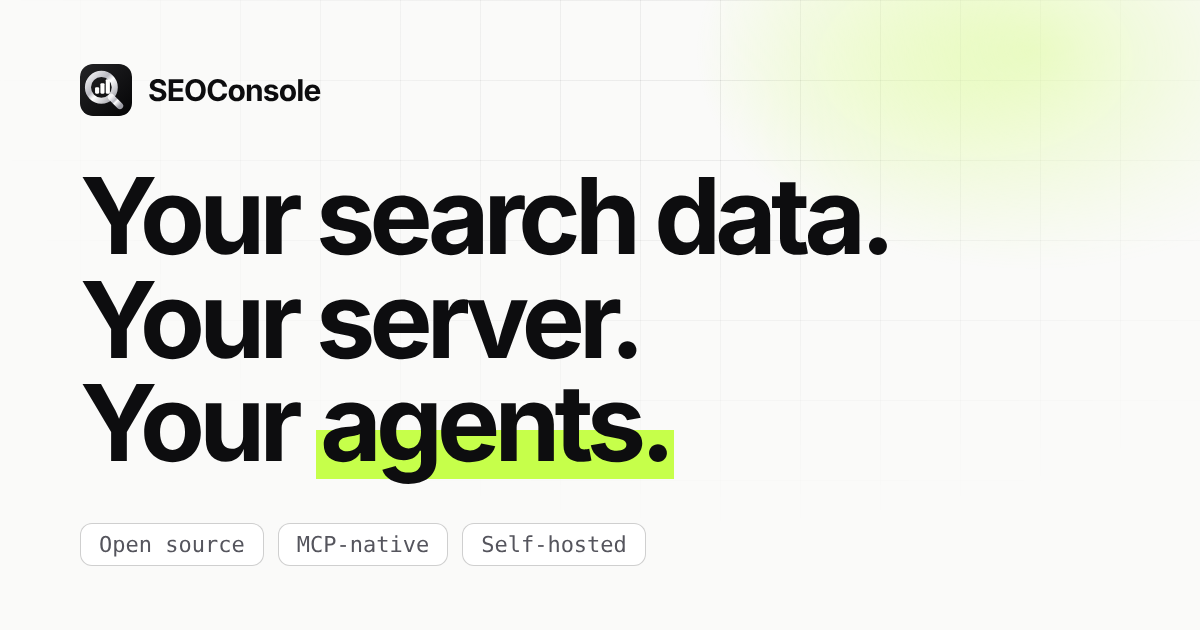
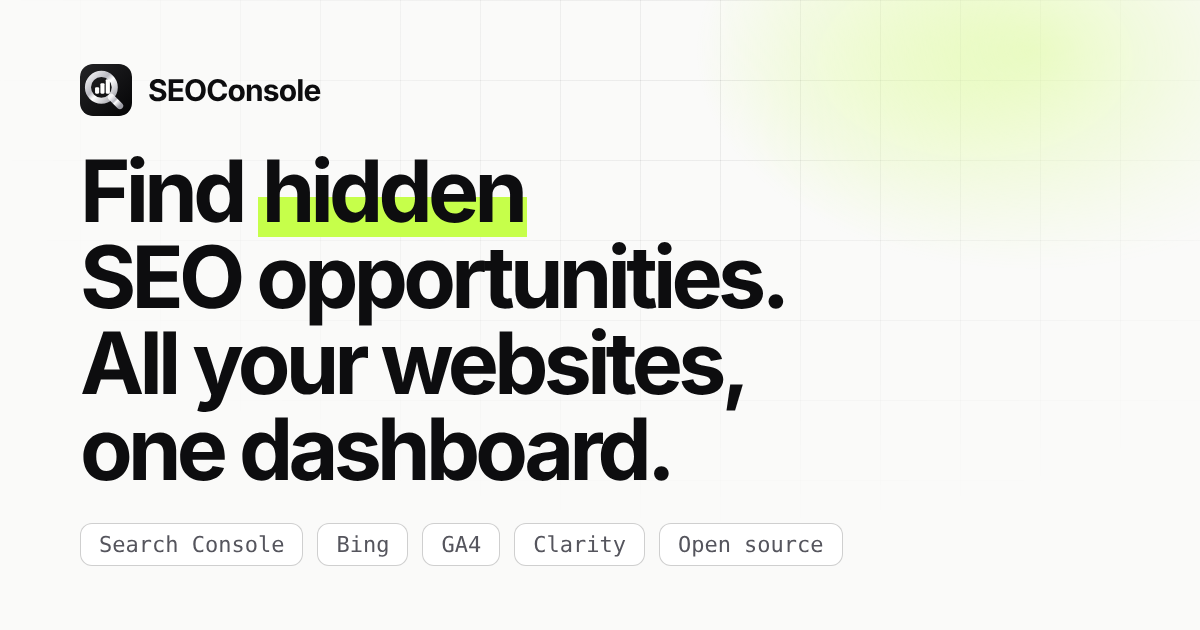
Catchier site title: find hidden SEO opportunities, all your websites in one dashboard
Title, description, Open Graph and Twitter tags, JSON-LD, hero lead and the share
image now carry the message. No instant-ranking claims (tests reject them).

Claude-Session: https://claude.ai/code/session_01AzT4RChXpoW6jaQKn5nRRc

Changed region(s): [[0.0617, 0.2413, 0.74, 0.7841], [0.0617, 0.8444, 0.5242, 0.9048], [0.555, 0.8444, 0.6783, 0.8746]]

diff --git a/site/index.html b/site/index.html
@@ -3,19 +3,21 @@
 <head>
 <meta charset="utf-8">
 <meta name="viewport" content="width=device-width, initial-scale=1">
-<title>SEOConsole: your search data, your server, your agents</title>
-<meta name="description" content="Open-source SEO dashboard that syncs Search Console, GA4, Bing and Clarity into a file you own, ranks what to fix first, and lets any AI agent read it over MCP.">
+<title>Find Hidden SEO Opportunities in One Dashboard | SEOConsole</title>
+<meta name="description" content="Find hidden SEO opportunities in Search Console, Bing, GA4 and Clarity, see what to fix first, and manage all your websites in one free, open-source dashboard.">
 <meta name="theme-color" content="#fafaf9">
 <meta name="color-scheme" content="light">
 <link rel="canonical" href="https://seoconsole.app/">
 <meta property="og:type" content="website">
 <meta property="og:site_name" content="SEOConsole">
-<meta property="og:title" content="SEOConsole: your search data, your server, your agents">
-<meta property="og:description" content="Open-source SEO dashboard with an MCP server that reads by default. Self-host it, point an agent at it.">
+<meta property="og:title" content="Find hidden SEO opportunities. Manage all your websites in one dashboard.">
+<meta property="og:description" content="Find hidden SEO opportunities in Search Console, Bing, GA4 and Clarity, see what to fix first, and manage all your websites in one free, open-source dashboard.">
 <meta property="og:url" content="https://seoconsole.app/">
 <meta property="og:image" content="https://seoconsole.app/assets/og.png">
 <meta property="og:image:width" content="1200"><meta property="og:image:height" content="630">
 <meta name="twitter:card" content="summary_large_image">
+<meta name="twitter:title" content="Find hidden SEO opportunities. Manage all your websites in one dashboard.">
+<meta name="twitter:description" content="Find hidden SEO opportunities in Search Console, Bing, GA4 and Clarity, see what to fix first, and manage all your websites in one free, open-source dashboard.">
 <link rel="icon" href="/favicon.svg" type="image/svg+xml">
 <link rel="icon" href="/favicon-32.png" sizes="32x32" type="image/png">
 <link rel="alternate icon" href="/favicon.ico" sizes="48x48">
@@ -24,7 +26,7 @@
 <link rel="stylesheet" href="/assets/styles.css">
 <script src="/assets/boot.js"></script>
 <script type="application/ld+json">
-{"@context":"https://schema.org","@type":"SoftwareApplication","name":"SEOConsole","applicationCategory":"BusinessApplication","operatingSystem":"Linux, macOS, Docker","description":"Self-hosted SEO dashboard for Google Search Console, GA4, Bing and Clarity with an MCP server for AI agents that reads by default.","license":"https://www.gnu.org/licenses/agpl-3.0.html","url":"https://seoconsole.app/","codeRepository":"https://github.com/Ubaidofficial/OpenSiteConsole","offers":{"@type":"Offer","price":"0","priceCurrency":"USD"}}
+{"@context":"https://schema.org","@type":"SoftwareApplication","name":"SEOConsole","applicationCategory":"BusinessApplication","operatingSystem":"Linux, macOS, Docker","description":"Open-source SEO dashboard that finds hidden SEO opportunities across Google Search Console, GA4, Bing and Clarity, and manages all your websites in one place. Includes an MCP server for AI agents that reads by default.","license":"https://www.gnu.org/licenses/agpl-3.0.html","url":"https://seoconsole.app/","codeRepository":"https://github.com/Ubaidofficial/OpenSiteConsole","offers":{"@type":"Offer","price":"0","priceCurrency":"USD"}}
 </script>
 <script type="application/ld+json">
 {"@context":"https://schema.org","@type":"FAQPage","mainEntity":[
@@ -65,7 +67,7 @@
       <span class="ln l2"><span class="w">Your server.</span></span>
       <span class="ln l3"><span class="w">Your <span class="hl">agents.</span></span></span>
     </h1>
-    <p class="lead rv">SEOConsole syncs Search Console, GA4, Bing and Clarity into a SQLite file you own, ranks what to fix first, and lets any AI agent read it over MCP.</p>
+    <p class="lead rv">Find hidden SEO opportunities across all your websites in one dashboard. SEOConsole syncs Search Console, GA4, Bing and Clarity into a SQLite file you own, ranks what to fix first, and lets any AI agent read it over MCP.</p>
     <div class="cta rv">
       <a class="btn primary" href="#self-host">Self-host it, free<span class="arr" aria-hidden="true">→</span></a>
       <a class="btn ghost" href="#agents">Watch an agent use it</a>

diff --git a/tests/site.test.ts b/tests/site.test.ts
@@ -132,6 +132,37 @@ describe('site: honest and in step with the app', () => {
 	});
 });
 
+describe('site: the titles and descriptions that search results and link previews show', () => {
+	const tag = (re: RegExp) => re.exec(html)?.[1] ?? '';
+	const title = tag(/<title>([^<]+)<\/title>/);
+	const desc = tag(/<meta name="description" content="([^"]+)">/);
+	const ogTitle = tag(/<meta property="og:title" content="([^"]+)">/);
+	it('the page title is catchy, names both ideas, carries the brand and fits in a search result', () => {
+		expect(title).toBe('Find Hidden SEO Opportunities in One Dashboard | SEOConsole');
+		expect(title.length).toBeLessThanOrEqual(60);
+		expect(title).toMatch(/hidden SEO opportunities/i);
+		expect(title).toMatch(/one dashboard/i);
+		expect(title).toMatch(/SEOConsole$/);
+	});
+	it('the description fits in a search result and says what the tool finds, from where, and for how many sites', () => {
+		expect(desc.length).toBeGreaterThanOrEqual(120);
+		expect(desc.length).toBeLessThanOrEqual(160);
+		for (const w of ['hidden SEO opportunities', 'Search Console', 'Bing', 'GA4', 'Clarity', 'all your websites', 'open-source']) expect(desc, w).toContain(w);
+	});
+	it('link previews (Open Graph and Twitter) use the same message, and the structured data describes the same thing', () => {
+		expect(ogTitle).toBe('Find hidden SEO opportunities. Manage all your websites in one dashboard.');
+		expect(tag(/<meta name="twitter:title" content="([^"]+)">/)).toBe(ogTitle);
+		expect(tag(/<meta property="og:description" content="([^"]+)">/)).toBe(desc);
+		expect(tag(/<meta name="twitter:description" content="([^"]+)">/)).toBe(desc);
+		const ld = JSON.parse(/<script type="application\/ld\+json">([\s\S]*?)<\/script>/.exec(html)![1]);
+		expect(ld.description).toMatch(/hidden SEO opportunities/);
+		expect(html).toContain('<p class="lead rv">Find hidden SEO opportunities across all your websites in one dashboard.'); // the page says what its title promises
+	});
+	it('promises nothing the tool cannot keep: no instant or guaranteed rankings in any title, description or preview', () => {
+		for (const text of [title, desc, ogTitle, html.slice(0, html.indexOf('</head>'))]) expect(text).not.toMatch(/instant|guarantee|overnight|same day|#1\b|rank (first|fast|now)|first page|\bin minutes\b|\bin 24 hours\b/i);
+	});
+});
+
 describe('site: light mode only, and gentle on people who ask for less motion', () => {
 	it('declares itself light and has no dark scheme', () => {
 		expect(html).toMatch(/<meta name="color-scheme" content="light">/);
